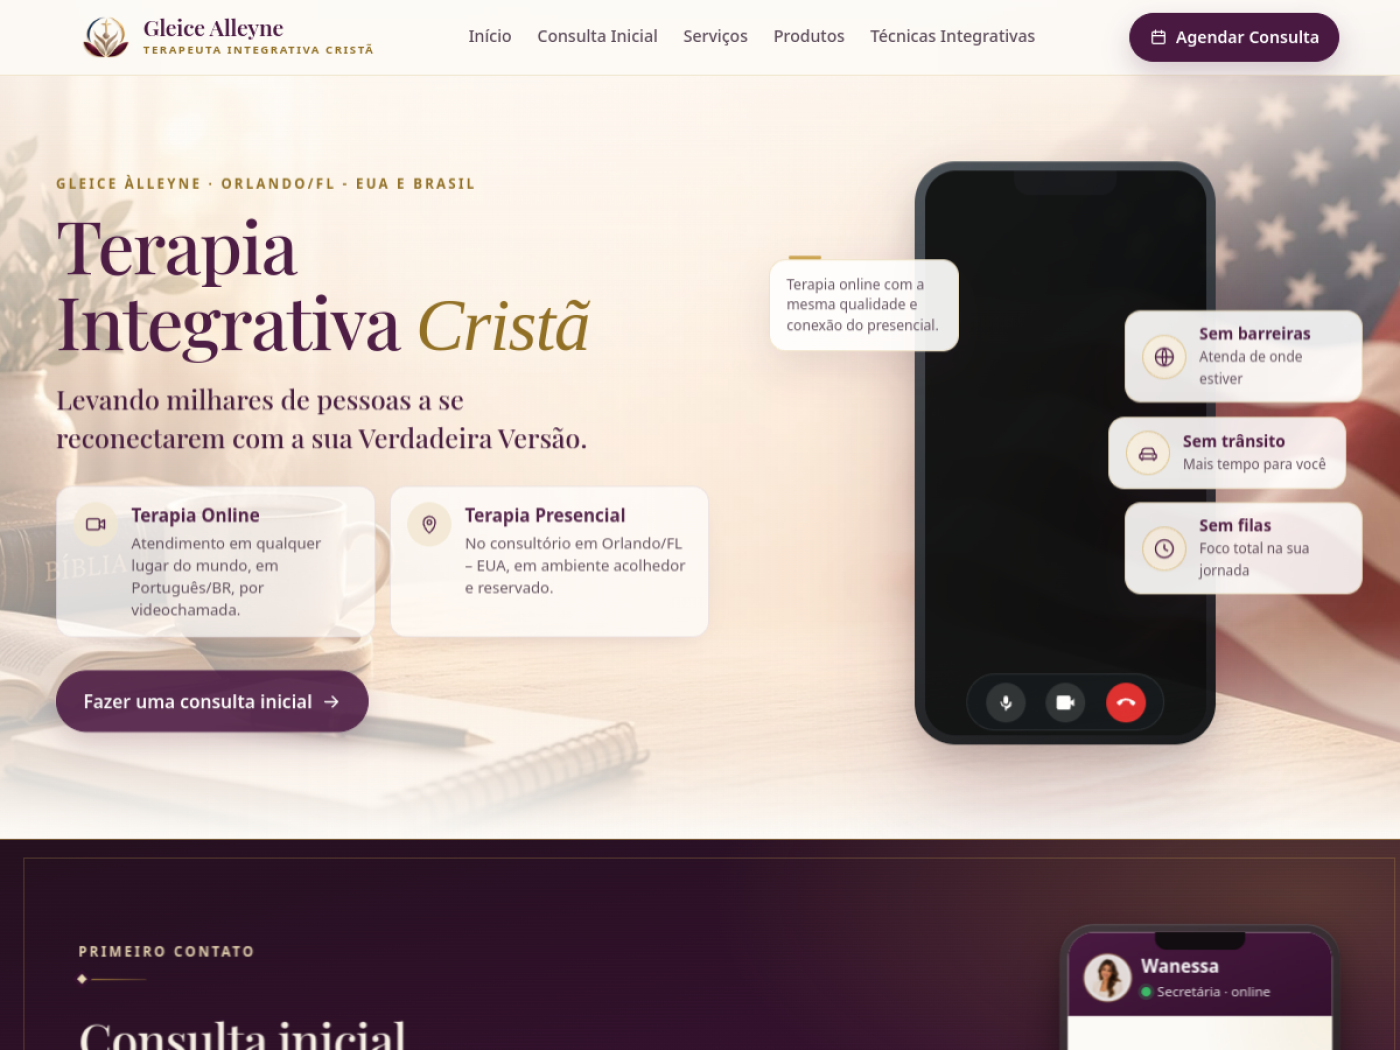
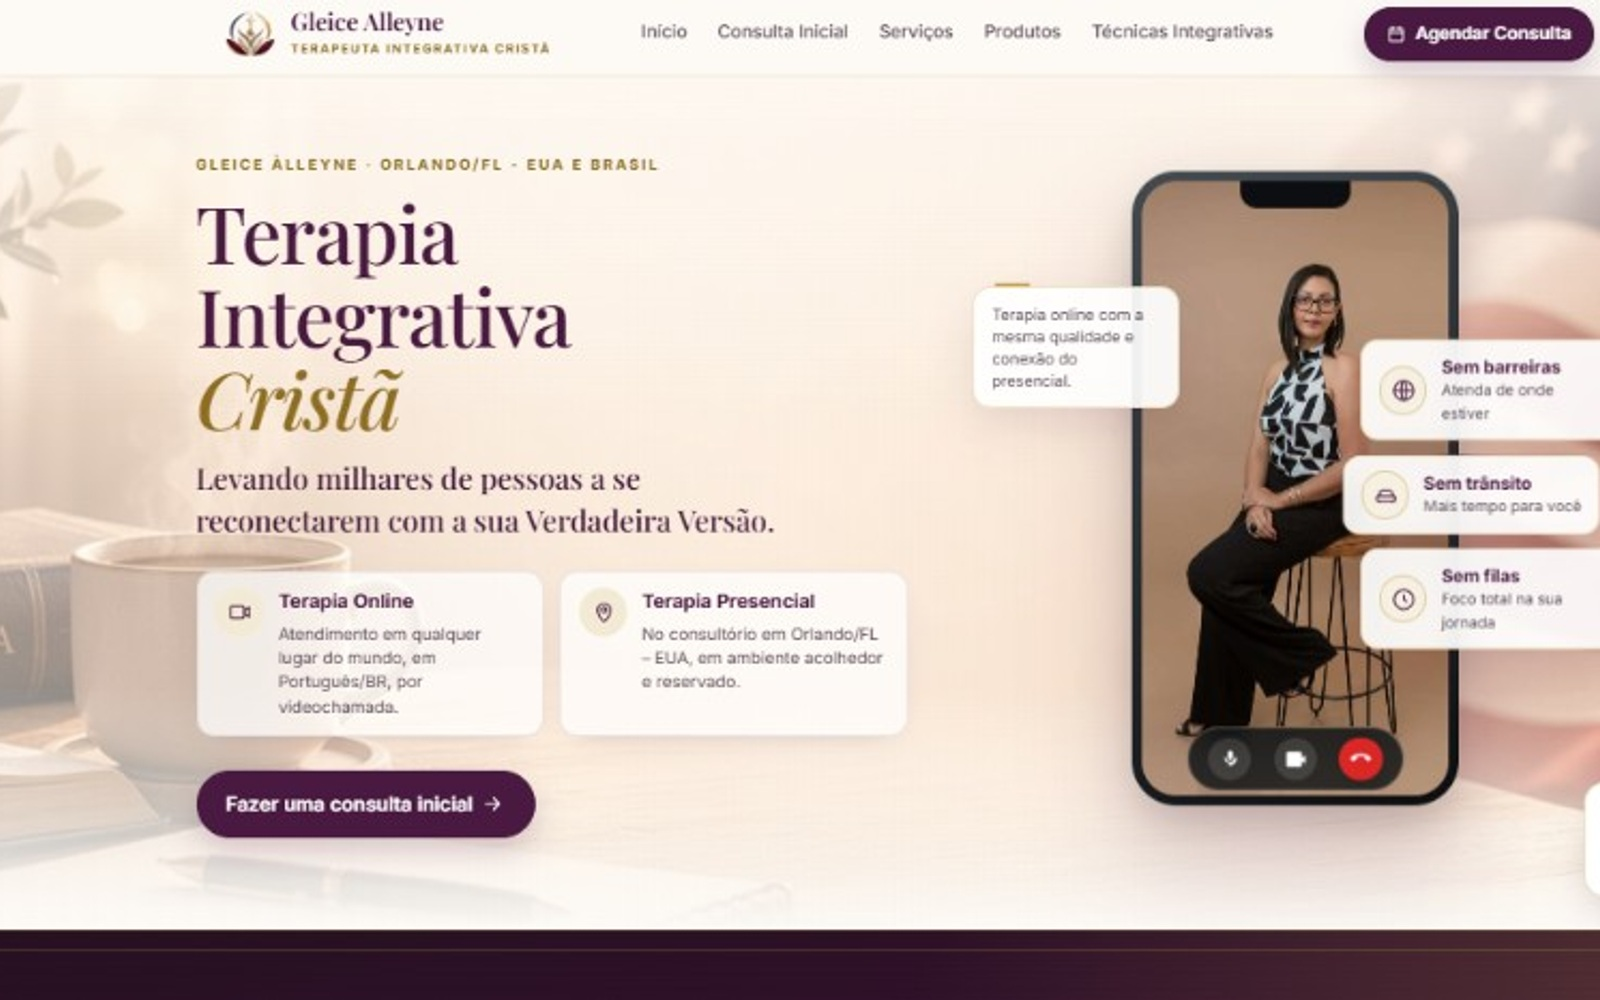
Melhora mobile, animações, cases reais e ícones do rodapé.

diff --git a/src/components/Footer.jsx b/src/components/Footer.jsx
@@ -17,25 +17,51 @@ export default function Footer() {
           </p>
         </div>
 
-        <div className="footer-actions">
+        <div className="footer-actions" role="list">
           <a
-            className="btn btn-whatsapp btn-whatsapp--sm"
+            className="footer-icon footer-icon--whatsapp"
             href={waHref}
             target="_blank"
             rel="noopener noreferrer"
+            aria-label="WhatsApp"
+            role="listitem"
           >
-            <svg viewBox="0 0 24 24" fill="currentColor" width="16" height="16" aria-hidden>
+            <svg viewBox="0 0 24 24" fill="currentColor" width="22" height="22" aria-hidden>
               <path d="M17.472 14.382c-.297-.149-1.758-.867-2.03-.967-.273-.099-.471-.148-.67.15-.197.297-.767.966-.94 1.164-.173.199-.347.223-.644.075-.297-.15-1.255-.463-2.39-1.475-.883-.788-1.48-1.761-1.653-2.059-.173-.297-.018-.458.13-.606.134-.133.298-.347.446-.52.149-.174.198-.298.298-.497.099-.198.05-.371-.025-.52-.075-.149-.669-1.612-.916-2.207-.242-.579-.487-.5-.669-.51-.173-.008-.371-.01-.57-.01-.198 0-.52.074-.792.372-.272.297-1.04 1.016-1.04 2.479 0 1.462 1.065 2.875 1.213 3.074.149.198 2.096 3.2 5.077 4.487.709.306 1.262.489 1.694.625.712.227 1.36.195 1.871.118.571-.085 1.758-.719 2.006-1.413.248-.694.248-1.289.173-1.413-.074-.124-.272-.198-.57-.347m-5.421 7.403h-.004a9.87 9.87 0 01-5.031-1.378l-.361-.214-3.741.982.998-3.648-.235-.374a9.86 9.86 0 01-1.51-5.26c.001-5.45 4.436-9.884 9.888-9.884 2.64 0 5.122 1.03 6.988 2.898a9.825 9.825 0 012.893 6.994c-.003 5.45-4.435 9.884-9.885 9.884m8.413-18.297A11.815 11.815 0 0012.05 0C5.495 0 .16 5.335.157 11.892c0 2.096.547 4.142 1.588 5.945L.057 24l6.305-1.654a11.882 11.882 0 005.683 1.448h.005c6.554 0 11.89-5.335 11.893-11.893a11.821 11.821 0 00-3.48-8.413z" />
             </svg>
-            WhatsApp
           </a>
+
           <a
-            className="btn btn-instagram"
+            className="footer-icon footer-icon--instagram"
             href={igHref}
             target="_blank"
             rel="noopener noreferrer"
+            aria-label="Instagram"
+            role="listitem"
           >
-            Instagram
+            <svg viewBox="0 0 24 24" fill="currentColor" width="22" height="22" aria-hidden>
+              <path d="M12 2.163c3.204 0 3.584.012 4.85.07 3.252.148 4.771 1.691 4.919 4.919.058 1.265.069 1.645.069 4.849 0 3.205-.012 3.584-.069 4.849-.149 3.225-1.664 4.771-4.919 4.919-1.266.058-1.644.07-4.85.07-3.204 0-3.584-.012-4.849-.07-3.26-.149-4.771-1.699-4.919-4.92-.058-1.265-.07-1.644-.07-4.849 0-3.204.013-3.583.07-4.849.149-3.227 1.664-4.771 4.919-4.919 1.266-.057 1.645-.069 4.849-.069zm0-2.163c-3.259 0-3.667.014-4.947.072-4.358.2-6.78 2.618-6.98 6.98-.059 1.281-.073 1.689-.073 4.948 0 3.259.014 3.668.072 4.948.2 4.358 2.618 6.78 6.98 6.98 1.281.058 1.689.072 4.948.072 3.259 0 3.668-.014 4.948-.072 4.354-.2 6.782-2.618 6.979-6.98.059-1.28.073-1.689.073-4.948 0-3.259-.014-3.667-.072-4.947-.196-4.354-2.617-6.78-6.979-6.98-1.281-.059-1.69-.073-4.949-.073zm0 5.838c-3.403 0-6.162 2.759-6.162 6.162s2.759 6.163 6.162 6.163 6.162-2.759 6.162-6.163c0-3.403-2.759-6.162-6.162-6.162zm0 10.162c-2.209 0-4-1.79-4-4 0-2.209 1.791-4 4-4s4 1.791 4 4c0 2.21-1.791 4-4 4zm6.406-11.845c-.796 0-1.441.645-1.441 1.44s.645 1.44 1.441 1.44c.795 0 1.439-.645 1.439-1.44s-.644-1.44-1.439-1.44z" />
+            </svg>
+          </a>
+
+          <a
+            className="footer-icon footer-icon--assistants"
+            href="#assistentes"
+            aria-label="Assistentes"
+            role="listitem"
+          >
+            <svg viewBox="0 0 24 24" fill="none" stroke="currentColor" strokeWidth="1.8" width="22" height="22" aria-hidden>
+              <path
+                strokeLinecap="round"
+                strokeLinejoin="round"
+                d="M8.5 10.5a2.5 2.5 0 115 0 2.5 2.5 0 01-5 0zM5.5 18.5c.4-2.2 2.3-3.8 4.5-3.8h2c2.2 0 4.1 1.6 4.5 3.8"
+              />
+              <path
+                strokeLinecap="round"
+                strokeLinejoin="round"
+                d="M15.5 9.2a2 2 0 112.8 2.8M17.2 18.5c.25-1.2 1.1-2.2 2.3-2.6"
+              />
+            </svg>
           </a>
         </div>
       </div>

diff --git a/src/components/Courses.jsx b/src/components/Courses.jsx
@@ -4,7 +4,7 @@ import { courseExamples, courseIncludes, coursePremium } from '../data/content'
 
 function CourseVideo({ item }) {
   const [playing, setPlaying] = useState(false)
-  const canPlay = Boolean(item.youtubeId) && !item.placeholder
+  const canPlay = Boolean(item.youtubeId)
 
   return (
     <article className="portfolio-item">
@@ -19,12 +19,19 @@ function CourseVideo({ item }) {
         ) : (
           <button
             type="button"
-            className="video-placeholder"
+            className={`video-placeholder${canPlay ? ' has-thumb' : ''}`}
             onClick={() => {
               if (canPlay) setPlaying(true)
             }}
             aria-label={canPlay ? `Reproduzir ${item.title}` : `${item.title} — em breve`}
           >
+            {canPlay && (
+              <img
+                className="video-thumb"
+                src={`https://i.ytimg.com/vi/${item.youtubeId}/hqdefault.jpg`}
+                alt=""
+              />
+            )}
             <span className="play-btn" aria-hidden>
               <svg width="22" height="22" viewBox="0 0 24 24" fill="#050508">
                 <path d="M8 5v14l11-7z" />
@@ -36,6 +43,7 @@ function CourseVideo({ item }) {
       <div className="portfolio-meta">
         <p className="tag">{item.niche}</p>
         <h4>{item.title}</h4>
+        {item.author && <p className="portfolio-author">{item.author}</p>}
         <p>{item.description}</p>
       </div>
     </article>
@@ -49,7 +57,7 @@ export default function Courses({ onOpenAssistant }) {
         <motion.div
           initial={{ opacity: 0, y: 20 }}
           whileInView={{ opacity: 1, y: 0 }}
-          viewport={{ once: true, amount: 0.25 }}
+          viewport={{ once: false, amount: 0.3 }}
           transition={{ duration: 0.5 }}
         >
           <p className="section-label">Criação do seu Curso Online</p>
@@ -67,7 +75,7 @@ export default function Courses({ onOpenAssistant }) {
           <motion.div
             initial={{ opacity: 0, x: -16 }}
             whileInView={{ opacity: 1, x: 0 }}
-            viewport={{ once: true }}
+            viewport={{ once: false, amount: 0.25 }}
             transition={{ duration: 0.5 }}
           >
             <h3 className="service-side-title">O que está incluso</h3>
@@ -109,7 +117,7 @@ export default function Courses({ onOpenAssistant }) {
             className="portfolio-grid"
             initial={{ opacity: 0, x: 16 }}
             whileInView={{ opacity: 1, x: 0 }}
-            viewport={{ once: true }}
+            viewport={{ once: false, amount: 0.25 }}
             transition={{ duration: 0.5 }}
           >
             <h3 className="cases-title">Alguns de nossos Cases</h3>

diff --git a/src/index.css b/src/index.css
@@ -714,9 +714,29 @@ a {
   border: none;
   width: 100%;
   color: var(--text);
+  overflow: hidden;
+  padding: 0;
+}
+
+.video-thumb {
+  position: absolute;
+  inset: 0;
+  width: 100%;
+  height: 100%;
+  object-fit: cover;
+}
+
+.video-placeholder.has-thumb::after {
+  content: '';
+  position: absolute;
+  inset: 0;
+  background: rgba(5, 5, 8, 0.35);
+  z-index: 1;
 }
 
 .play-btn {
+  position: relative;
+  z-index: 2;
   width: 64px;
   height: 64px;
   border-radius: 50%;
@@ -751,7 +771,14 @@ a {
 .portfolio-meta h4 {
   font-family: var(--font-display);
   font-size: 1.1rem;
-  margin-bottom: 0.35rem;
+  margin-bottom: 0.2rem;
+}
+
+.portfolio-author {
+  color: var(--text) !important;
+  font-size: 0.88rem;
+  font-weight: 600;
+  margin-bottom: 0.45rem !important;
 }
 
 .portfolio-meta p {
@@ -1266,9 +1293,43 @@ a {
 
 .footer-actions {
   display: flex;
-  flex-direction: column;
-  align-items: flex-end;
+  flex-direction: row;
+  flex-wrap: nowrap;
+  align-items: center;
+  justify-content: flex-end;
   gap: 0.75rem;
+}
+
+.footer-icon {
+  width: 48px;
+  height: 48px;
+  border-radius: 50%;
+  display: grid;
+  place-items: center;
+  color: #fff;
+  transition: transform 0.22s ease, box-shadow 0.22s ease, opacity 0.22s ease;
+  flex-shrink: 0;
+}
+
+.footer-icon:hover {
+  transform: translateY(-2px);
+  color: #fff;
+  opacity: 0.95;
+}
+
+.footer-icon--whatsapp {
+  background: #22c55e;
+  box-shadow: 0 8px 20px rgba(34, 197, 94, 0.35);
+}
+
+.footer-icon--instagram {
+  background: linear-gradient(135deg, #f58529, #dd2a7b 45%, #8134af 75%, #515bd4);
+  box-shadow: 0 8px 20px rgba(221, 42, 123, 0.3);
+}
+
+.footer-icon--assistants {
+  background: linear-gradient(135deg, var(--purple), #7c3aed 55%, var(--green));
+  box-shadow: 0 8px 20px rgba(168, 85, 247, 0.35);
 }
 
 .btn-whatsapp {
@@ -1597,14 +1658,20 @@ a {
   }
 
   .hero {
-    min-height: auto;
+    min-height: 100vh;
+    min-height: 100dvh;
     padding-top: calc(var(--nav-h) + 0.5rem);
-    padding-bottom: 3.5rem;
-    align-items: flex-start;
+    padding-bottom: 2.25rem;
+    align-items: center;
+    box-sizing: border-box;
   }
 
   .hero-shell {
     width: min(1120px, calc(100% - 2rem));
+    display: flex;
+    flex-direction: column;
+    justify-content: center;
+    min-height: calc(100dvh - var(--nav-h) - 2.75rem);
   }
 
   .hero-content {
@@ -1688,8 +1755,17 @@ a {
   }
 
   .footer-actions {
+    flex-direction: row;
+    flex-wrap: nowrap;
     align-items: center;
-    width: 100%;
+    justify-content: center;
+    width: auto;
+    gap: 0.85rem;
+  }
+
+  .footer-icon {
+    width: 46px;
+    height: 46px;
   }
 
   .footer-logo {

diff --git a/src/data/content.js b/src/data/content.js
@@ -49,19 +49,21 @@ export const sitePlans = [
 export const courseExamples = [
   {
     id: 1,
-    title: 'Curso de Lançamento Digital',
-    niche: 'Marketing',
-    description: 'Gravação + edição + lançamento completo para especialista em marketing.',
-    youtubeId: '',
-    placeholder: true,
+    title: 'Corretor 10x',
+    niche: 'Corretor de Imóveis',
+    author: 'Vinícius Franco',
+    description:
+      'Gravação + edição + entrega do material em nuvem para a equipe do corretor.',
+    youtubeId: '9UAGarP7_sw',
   },
   {
     id: 2,
-    title: 'Mentoria de Finanças Pessoais',
-    niche: 'Finanças',
-    description: 'Produção audiovisual e estrutura modular para lançamento em plataforma.',
-    youtubeId: '',
-    placeholder: true,
+    title: 'Master PEIM',
+    niche: 'Estética',
+    author: 'Dra. Lorenna Keren',
+    description:
+      'Gravação + edição + planejamento de posicionamento nas redes + vídeo na plataforma + lançamento. Biomédica Esteta e Cirurgiã-Dentista, especialista em PEIM.',
+    youtubeId: 'jHwgQeZeRYE',
   },
 ]
 
@@ -83,7 +85,7 @@ export const siteExamples = [
     description: 'Presença digital personalizada para atendimento online e presencial.',
     accent: '#14f195',
     url: 'https://www.gleicealleyne.com.br/',
-    desktopImage: '/images/cases/gleice-desktop.jpg',
+    desktopImage: '/images/cases/gleice-desktop.jpg?v=2',
     mobileImage: '/images/cases/gleice-mobile.jpg',
   },
 ]

diff --git a/src/components/Sites.jsx b/src/components/Sites.jsx
@@ -9,7 +9,7 @@ export default function Sites({ onOpenAssistant }) {
         <motion.div
           initial={{ opacity: 0, y: 20 }}
           whileInView={{ opacity: 1, y: 0 }}
-          viewport={{ once: true, amount: 0.25 }}
+          viewport={{ once: false, amount: 0.3 }}
           transition={{ duration: 0.5 }}
         >
           <p className="section-label">Sites &amp; presença digital</p>
@@ -27,7 +27,7 @@ export default function Sites({ onOpenAssistant }) {
           <motion.div
             initial={{ opacity: 0, x: -16 }}
             whileInView={{ opacity: 1, x: 0 }}
-            viewport={{ once: true }}
+            viewport={{ once: false, amount: 0.25 }}
             transition={{ duration: 0.5 }}
           >
             <h3 className="service-side-title">O que oferecemos</h3>
@@ -82,7 +82,7 @@ export default function Sites({ onOpenAssistant }) {
             className="mockups-grid mockups-grid--cases"
             initial={{ opacity: 0, x: 16 }}
             whileInView={{ opacity: 1, x: 0 }}
-            viewport={{ once: true }}
+            viewport={{ once: false, amount: 0.25 }}
             transition={{ duration: 0.5 }}
           >
             <h3 className="cases-title">Alguns de nossos Cases</h3>

diff --git a/src/components/CtaBand.jsx b/src/components/CtaBand.jsx
@@ -9,7 +9,7 @@ export default function CtaBand({ onOpenAssistant }) {
           className="cta-band"
           initial={{ opacity: 0, y: 20 }}
           whileInView={{ opacity: 1, y: 0 }}
-          viewport={{ once: true }}
+          viewport={{ once: false, amount: 0.3 }}
           transition={{ duration: 0.5 }}
         >
           <h2>Se você quiser avançar para o próximo nível com a Video One</h2>

diff --git a/src/components/Assistants.jsx b/src/components/Assistants.jsx
@@ -29,7 +29,7 @@ export default function Assistants({ onOpenAssistant }) {
         variants={sectionVariants}
         initial="hidden"
         whileInView="show"
-        viewport={{ once: true, amount: 0.2 }}
+        viewport={{ once: false, amount: 0.35 }}
       >
         {list.map((a) => (
           <motion.article
